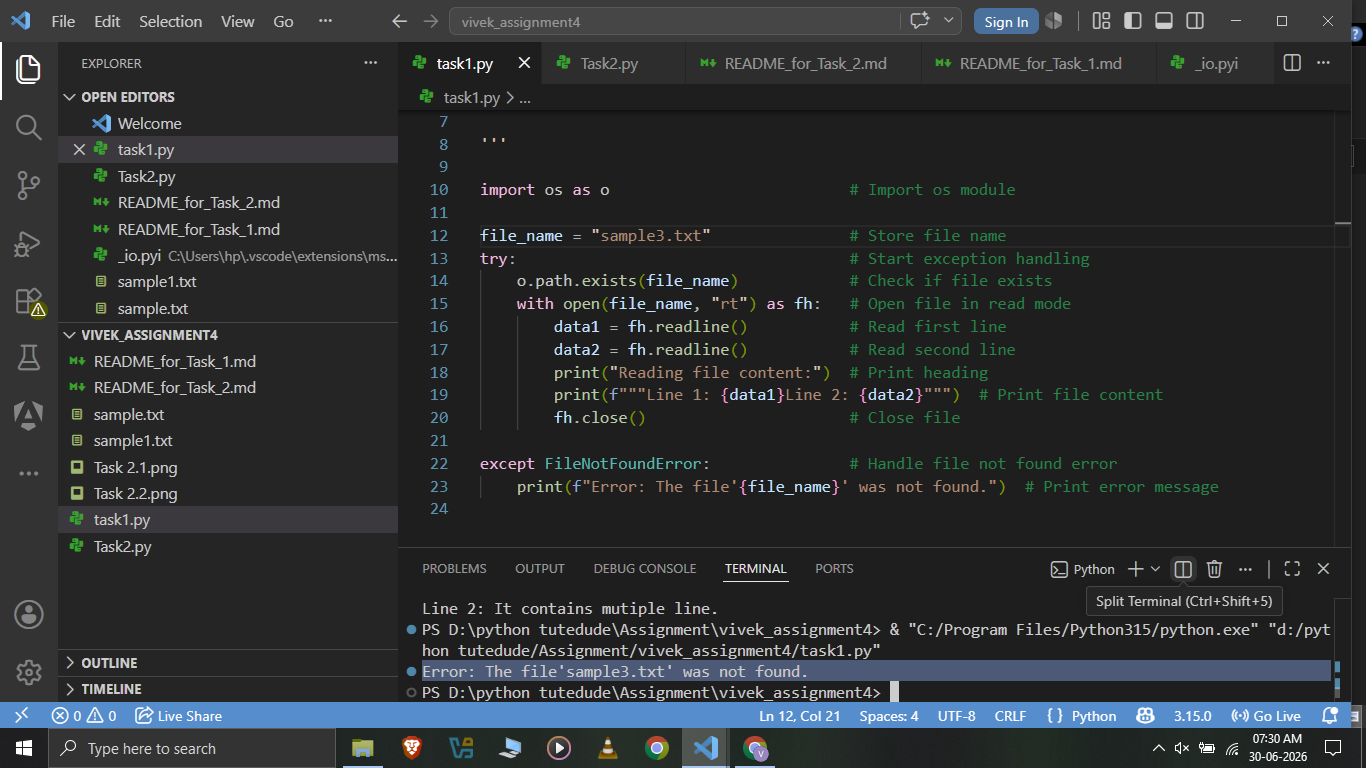
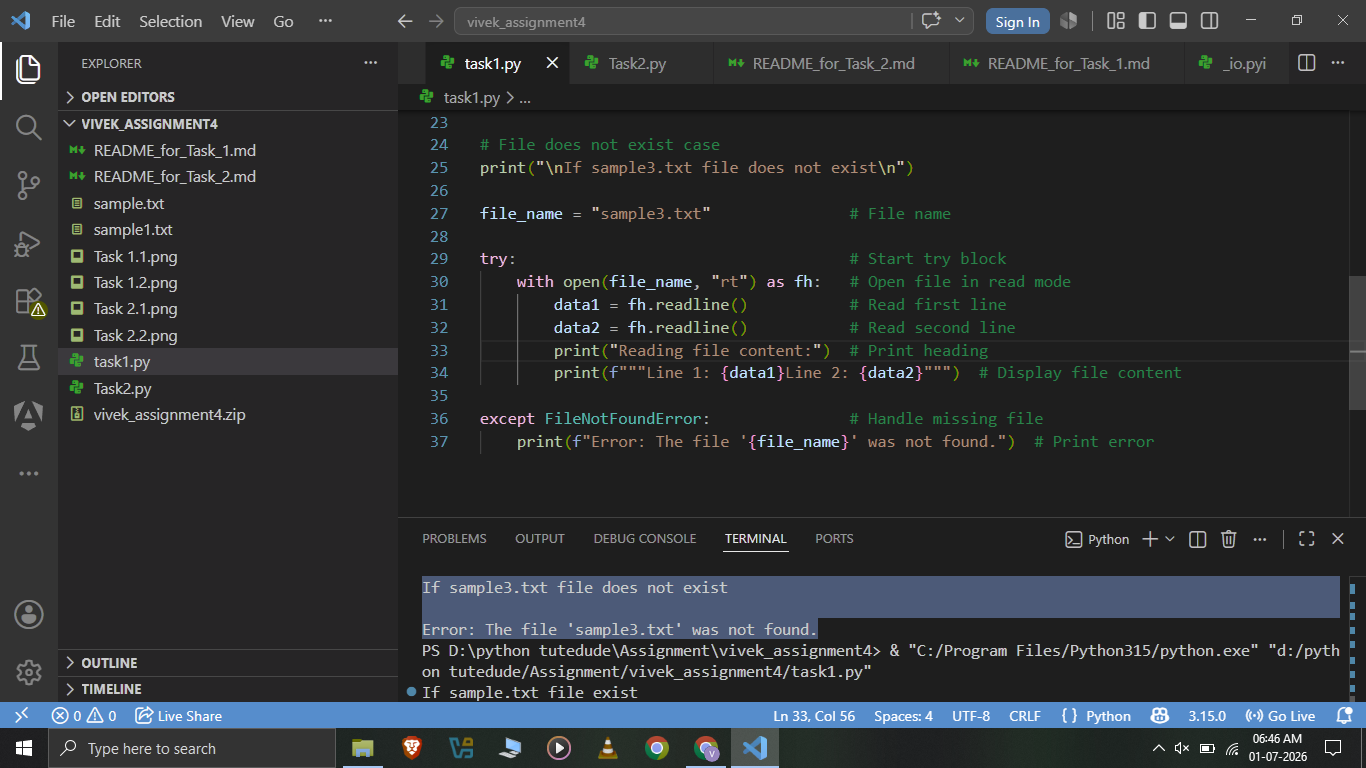
vivek_assignment4 Added

diff --git a/Assignment/vivek_assignment4/task1.py b/Assignment/vivek_assignment4/task1.py
@@ -1,23 +1,37 @@
 '''
-Task 1: Read a File and Handle Errors 
-Problem Statement:  Write a Python program that:
+Task 1: Read a File and Handle Errors
+Problem Statement: Write a Python program that:
 1. Opens and reads a text file named sample.txt.
 2. Prints its content line by line.
 3. Handles errors gracefully if the file does not exist.
-
 '''
 
-import os as o                          # Import os module
+# File exists case
+print("If sample.txt file exist")
+file_name = "sample.txt"                # File name
 
-file_name = "sample3.txt"               # Store file name
-try:                                    # Start exception handling
-    o.path.exists(file_name)            # Check if file exists
+try:                                    # Start try block
+    with open(file_name, "rt") as fh:   # Open file in read mode
+        data1 = fh.readline()           # Read first line
+        data2 = fh.readline()           # Read second line
+        print("\nReading file content:")  # Print heading
+        print(f"""Line 1: {data1}Line 2: {data2}""")  # Display file content
+
+except FileNotFoundError:               # Handle missing file
+    print(f"Error: The file '{file_name}' was not found.")  # Print error
+
+
+# File does not exist case
+print("\nIf sample3.txt file does not exist\n")
+
+file_name = "sample3.txt"               # File name
+
+try:                                    # Start try block
     with open(file_name, "rt") as fh:   # Open file in read mode
         data1 = fh.readline()           # Read first line
         data2 = fh.readline()           # Read second line
         print("Reading file content:")  # Print heading
-        print(f"""Line 1: {data1}Line 2: {data2}""")  # Print file content
-        fh.close()                      # Close file
-        
-except FileNotFoundError:               # Handle file not found error
-    print(f"Error: The file'{file_name}' was not found.")  # Print error message
+        print(f"""Line 1: {data1}Line 2: {data2}""")  # Display file content
+
+except FileNotFoundError:               # Handle missing file
+    print(f"Error: The file '{file_name}' was not found.")  # Print error

diff --git a/Assignment/vivek_assignment4/README_for_Task_1.md b/Assignment/vivek_assignment4/README_for_Task_1.md
@@ -12,7 +12,7 @@ Write a Python program that:
 
 ## 🎯 Objective
 
-The objective of this program is to understand how to read data from a text file and handle file-related errors using exception handling in Python.
+The objective of this program is to learn basic file handling and exception handling in Python by reading a text file and displaying an appropriate error message when the file is not found.
 
 ---
 
@@ -24,10 +24,13 @@ The objective of this program is to understand how to read data from a text file
 
 ---
 
-## 📁 File Used
+## 📁 Files Used
 
 ```
 sample.txt
+sample3.txt
+task1.py
+README.md
 ```
 
 ---
@@ -35,13 +38,10 @@ sample.txt
 ## 📚 Concepts Covered
 
 - `open()` function
-- File modes
-  - `rt` – Read Text Mode
+- File Modes (`rt`)
 - `readline()`
-- `try`
-- `except`
+- `try` and `except`
 - `FileNotFoundError`
-- `os.path.exists()`
 - Context Manager (`with` statement)
 
 ---
@@ -49,16 +49,17 @@ sample.txt
 ## ▶️ How to Run
 
 1. Open the project in Visual Studio Code.
-2. Make sure the `sample.txt` file is present in the same folder as the Python program.
-3. Open the terminal.
-4. Run the program using:
+2. Place `sample.txt` in the same folder as `task1.py`.
+3. Run the program using:
 
 ```bash
 python task1.py
 ```
 
-5. The program reads the file line by line and displays its contents.
-6. If the file does not exist, an appropriate error message is displayed.
+4. The program will:
+   - Read and display the contents of `sample.txt`.
+   - Attempt to open `sample3.txt`.
+   - Display an error message if `sample3.txt` does not exist.
 
 ---
 
@@ -74,45 +75,32 @@ It contains multiple lines.
 ## 💻 Sample Output
 
 ```
-Reading file content:
+If sample.txt file exist
 
+Reading file content:
 Line 1: This is a sample text file.
 Line 2: It contains multiple lines.
-```
 
-### If the file does not exist
+If sample3.txt file does not exist
 
-```
-Error: The file 'sample.txt' was not found.
+Error: The file 'sample3.txt' was not found.
 ```
 
 ---
 
 ## 📖 Program Explanation
 
-### Step 1
+### Case 1: File Exists
 
-Import the `os` module to work with file-related operations.
+- Opens `sample.txt` in read mode.
+- Reads the first two lines using `readline()`.
+- Displays the file contents.
 
-### Step 2
+### Case 2: File Does Not Exist
 
-Store the file name in a variable.
-
-### Step 3
-
-Use a `try` block to attempt opening the file in read mode.
-
-### Step 4
-
-Read the first and second lines using the `readline()` method.
-
-### Step 5
-
-Display the contents of the file line by line.
-
-### Step 6
-
-If the file is missing, the `except FileNotFoundError` block catches the exception and displays an error message instead of terminating the program.
+- Attempts to open `sample3.txt`.
+- Since the file is missing, `FileNotFoundError` is raised.
+- The `except` block catches the error and prints an appropriate message.
 
 ---
 
@@ -130,9 +118,9 @@ Task1/
 ## ✅ Features
 
 - Reads a text file line by line.
-- Uses `readline()` for reading file content.
-- Implements exception handling using `try` and `except`.
-- Prevents the program from crashing when the file is not found.
+- Demonstrates the use of `readline()`.
+- Uses `try` and `except` for exception handling.
+- Prevents the program from crashing when a file is missing.
 - Uses the `with` statement for automatic file handling.
 
 ---
@@ -142,5 +130,3 @@ Task1/
 **Vivek Ananda Satpute**
 
 Python Assignment – File Handling and Exception Handling
-
----